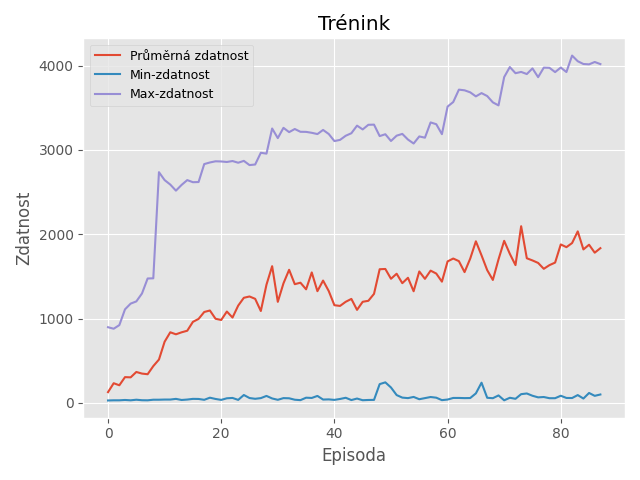
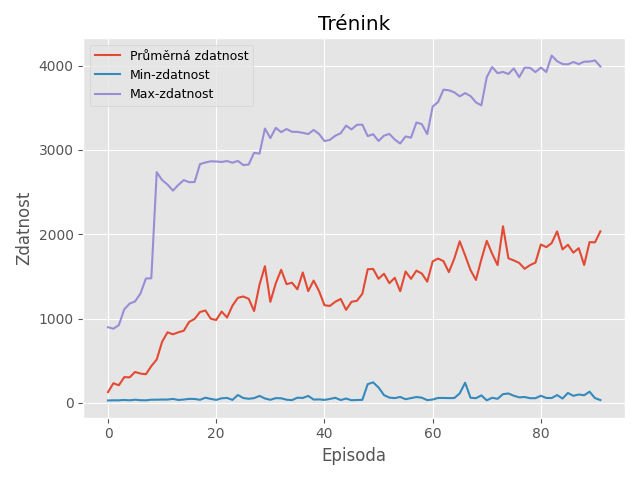
art

diff --git a/article/art.tex b/article/art.tex
@@ -14,6 +14,7 @@
 \usepackage[center]{caption}
 \usepackage{wrapfig}
 \usepackage{animate}
+\usepackage{textcomp}
 \usepackage{enumitem}
 \setlist[enumerate]{itemsep=0mm}
 
@@ -219,5 +220,150 @@
         Kvůli zdánlivé obtížnosti úkolu a velikosti sítě jsem se rozhodl pro hodnotu 
         \textbf{pravděpodobnosti mutace = 2,5\%}. Zároveň pro snazší uchování nejlepší 
         genetické informace se nejlepší jedinec poslední generace přenáší do další.
-        
+
+    \pagebreak
+    \section{Projekt - AI-Závodník}
+        Celý program je napsán velmi objektově, kde každá potřebnější funkce je přiřazena
+        své třídě.
+
+        \textbf{Seznam vlastních tříd}
+        \begin{itemize}
+            \item \textbf{main} - hlavní, středová část programu, spojující všechny knihovny
+            \item Car - třída závodníků se všemi funkcemi
+            \item Controller - ovládání, funkce umožňující spojení vozidel a umělé inteligence
+            \item GeneticAlg - třída zajišťující práci s mechanismy genetického algoritmu,
+                zpracovávání dat celé populace testovaných jedinců
+            \item Boundary - třída objektů, se kterými závodníci mohou interagovat
+            \item Ray - třída umožnující práci s paprsky, které se používají při měření vzdálenosti
+                (lazerový metr) - senzory vozidel
+        \end{itemize}
+
+        \subsection{Závodníci}
+
+            \begin{figure}[H]
+                \centering
+                \includegraphics[width=1\textwidth]{../data/carClipArt.jpg}
+                \captionof{figure}{Model vozidla}
+                \label{fig:carpic}
+            \end{figure}
+
+
+            Centrálním bodem celého projektu jsou závodnící ovládaní umělou intelignecí.
+            Hlavním kritériem při jejich vývoji bylo předat sítím co největší kontrolu nad 
+            autem samotným. 
+
+            \underline{\textbf{\large{Ovládání}}}
+            \begin{figure}[H]
+            \centering
+            \begin{minipage}[t]{.5\textwidth}
+                \centering
+                % \includegraphics[width=0.9\linewidth]{data/perceptron-model1.png}
+                \animatedgraphcs[autoplay,width=1\linewidth]{24}{data/forward/r_}{1}{54}
+            \end{minipage}%
+            \begin{minipage}[t]{.5\textwidth}
+                \centering
+                % \includegraphics[width=0.85\linewidth]{data/easynn-scheme.png}
+                \animatedgraphcs[autoplay,width=1\linewidth]{24}{data/spin/r_}{1}{90}
+            \end{minipage}
+            \captionof{figure}{Povolená ovládání vozidel}
+            \label{fig:controlls}
+            \end{figure}
+
+            Ovládání závodníkům umožňuje celkovou kontrolu nad \textbf{rychlosti a zatáčení s proměnlivou
+            sílou otáčení}. S touto možností se závodnící při dostatečném tréninku zvládají naučit
+            velmi optimalizované průjezdy závodními traťemi všeho druhu.\\
+
+            \tab V architektuře neuronové sítě jsou do výstupní vrstvy zabudovány dva neurony.
+            První pracuje s určováním rychlosti a druhý se zatáčením. Hodnoty, které na těchto
+            neuronech můžeme dosáhnout jsou upraveny do \textbf{rozsahu -1.0 - 1.0}. Tímto způsobem 
+            má ovladač velkou kontrolu při rozhodování o síle zrychlení/zpomalení nebo o úhlu zatočení.
+
+        \subsection{Kontrola prostředí}
+            Aby se ovládání mohlo rozhodovat, je potřeba mu dodat nějaká data z prostředí kolem 
+            jeho vozidla. Hlavním zdrojem informací (vstupní vrstva neuronové sítě) je 5
+            \textbf{dálkových senzorů}, které měří vzdálenost předního nárazníku od stěn před ním.
+            Paprsky senzorů jsou vysílány z předního středového bodu bod zorným úhlem 120\textdegree
+            s určitou maximální vzdáleností, které můžou dosáhnout. Poslední informací 
+            je poté \textbf{interní časomíra vozidla}, která udává kolik proběhlo výpočtů od startu testu. 
+
+            \begin{figure}[H]
+            \centering
+            \begin{minipage}[t]{.5\textwidth}
+                \centering
+                \includegraphics[width=1\linewidth]{data/rays1.png}
+            \end{minipage}%
+            \begin{minipage}[t]{.5\textwidth}
+                \centering
+                \includegraphics[width=1\linewidth]{data/rays2.png}
+            \end{minipage}
+            \captionof{figure}{Práce měřících paprsků}
+            \label{fig:rays}
+            \end{figure}
+
+            \tab Vedle dálkových měřičů jsou ještě vozidla kontrolována proti kolizím s testovacím 
+            prostředím. Případná kolize se stěnou závodní trati by ukončila testovací jízdu
+            daného vozidla z generace a následně by byl vypočítán jeho výsledek (zdatnost).
+            Tuto kontrolu zajišťuje \textbf{5 senzorů po obvodu modelu vozidla} a kontrola
+            kolize na nich probýhá každý výpočetní cyklus.
+            
+            \begin{figure}[H]
+                \centering
+                \includegraphics[width=1\textwidth]{data/collisionpoints.png}
+                \captionof{figure}{Senzory kolize}
+                \label{fig:collisionpoints}
+            \end{figure}
+
+        \subsection{Trénink závodníků}
+            Pro trénování je nejdřív potřeba vytvořit testovací prostředí (trať) a vložit
+            do ní pár kontrolních bodů (START, ZÁCHYTNÉ BODY). Potřeba zmínit,
+            že každý trénink, i když bude prováděn na totožné trati, bude odlišný od těch
+            předchozích. Příčinou je náhodnost celého procesu a styl jakým jsou vytvářeni
+            náhodní jedinci pro první generaci testování.
+
+            \tab Po nárazu všech závodníků nastává konec testování pro danou skupinu.
+            Je vypočítána zdatnost každého z nich, kde je potřeba určit \textbf{za co bude jedinec
+            odměněň}. 
+            
+            \underline{\textbf{Konfigurace odměn za výsledky na trati}}
+            \begin{tabular}[c]{ | l | l | l | l | p{5cm} | }
+                \hline
+                 & Délka života & Počet záchytných bodů & Pořadí na záchytných bodech & Chování \\ \hline
+                \textbf{Použito} & 0,75 & 50 & 100 & Nejlepší konfigurace. Jedinci jsou schopni rychlého učení celé trati,
+                snaží se ji celou dokončit a po dokončení se postupně snaží na trati zrychlit.\\ \hline
+                          & 1 & 50 & 25 & Jedinci jsou schopni se trať naučit, nicméně jezdí velmi pomalu.
+                Samotný život je cenější než snaha závodit o prvenství na záchytném bodě.\\ \hline
+                          & 0,25 & 50 & 150 &  \\ \textit{"Nastavení závodníků"} - Jedinci rychle
+                pochopí, že největší zisk není v délce života, ale v rychlosti na záchytných bodech,
+                což vede k velmi rychlým průjezdům. Nicméně se může stát, že žádný z jedinců trať nevyřeší celou.\hline
+                \label{tab:config}
+            \end{tabular}
+
+            \tab Po nalezení dobré konfigurace odměn a správné architektury sítě
+            se výsledky při opakovaném testování chovají vždy velmi podobně.
+            Začátek je o pomalém postupu, kde se může vyskytnout jedinec, který
+            je schopen se na trati dostat dál. Tento posun (\textbf{správná genetická informace})
+            se rychle šíří i mezi zbytek populace. Poté nastává zlomový bod, kdy se
+            v jedné generaci objeví takový jedinec, který je schopen projet trať celou
+            (na základě více primitivního "vyhýbání se stěnám", než optimalizovaného průjezdu). 
+            Tato informace se posléze začíná šířit i mezi ostatní a začínají vznikat nové,
+            lepší a rychlejší průjezdy. \textbf{V této fázi je problém (trať) vyřešen}.
+            Toto řešení ale nemusí být to nejlepší, a tak i dál jde sledovat postupný nárůst
+            úspěšnosti.\\
+            \tab Celý postup je na konci každé generace zaznamenáván do grafu.
+
+            \begin{figure}[H]
+            \centering
+            \begin{minipage}[t]{.5\textwidth}
+                \centering
+                \includegraphics[width=1\linewidth]{../saves/f0.png}
+            \end{minipage}%
+            \begin{minipage}[t]{.5\textwidth}
+                \centering
+                \includegraphics[width=1\linewidth]{../saves/f1.png}
+            \end{minipage}
+            \captionof{figure}{Výsledky tréninků na dvou různých tratích}
+            \label{fig:results}
+            \end{figure}
+
+
 \end{document}

diff --git a/main.py b/main.py
@@ -427,7 +427,7 @@ while True:
             # plt.xlabel('Episode')
             # plt.ylabel('Fitness')
             plt.title('Trénink')
-            plt.xlabel('Episoda')
+            plt.xlabel('Epizoda')
             plt.ylabel('Zdatnost')
             # plt.plot(episodes[0], label='Average fitness')
             plt.plot(episodes[0], label='Průměrná zdatnost')
